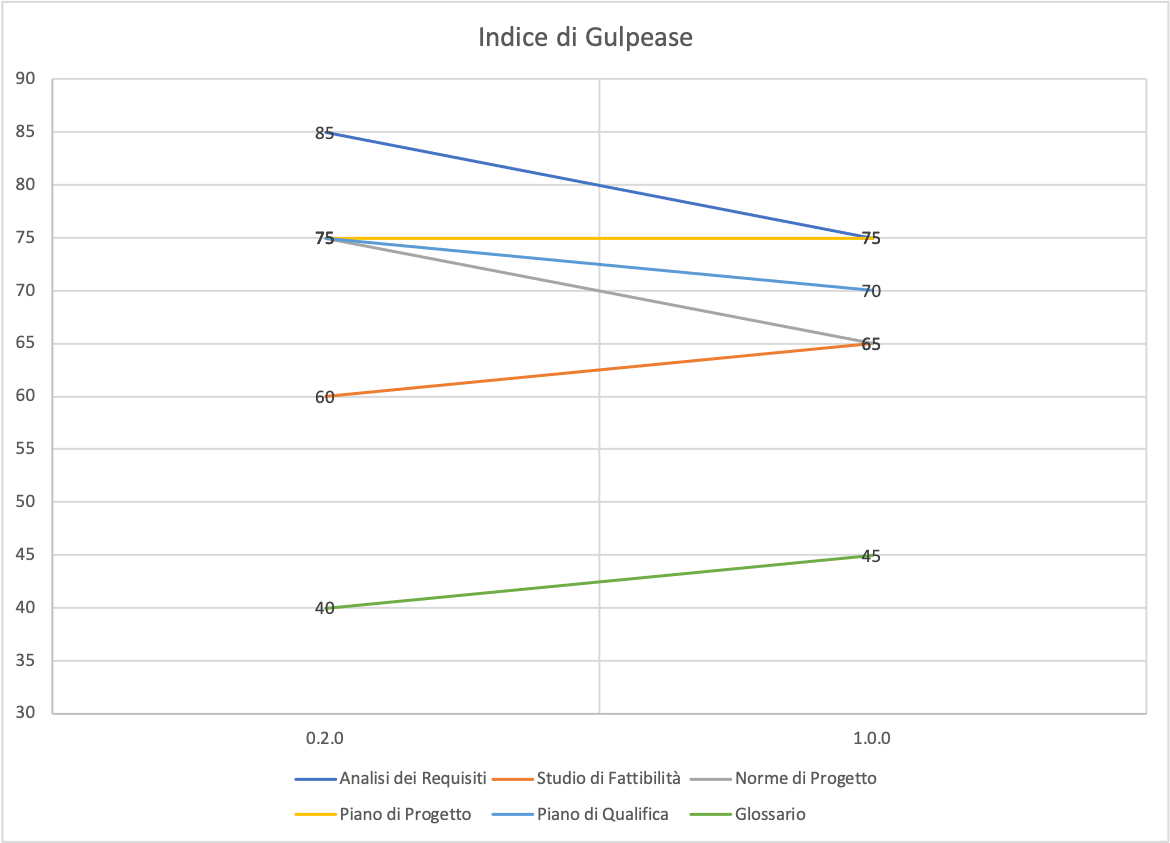
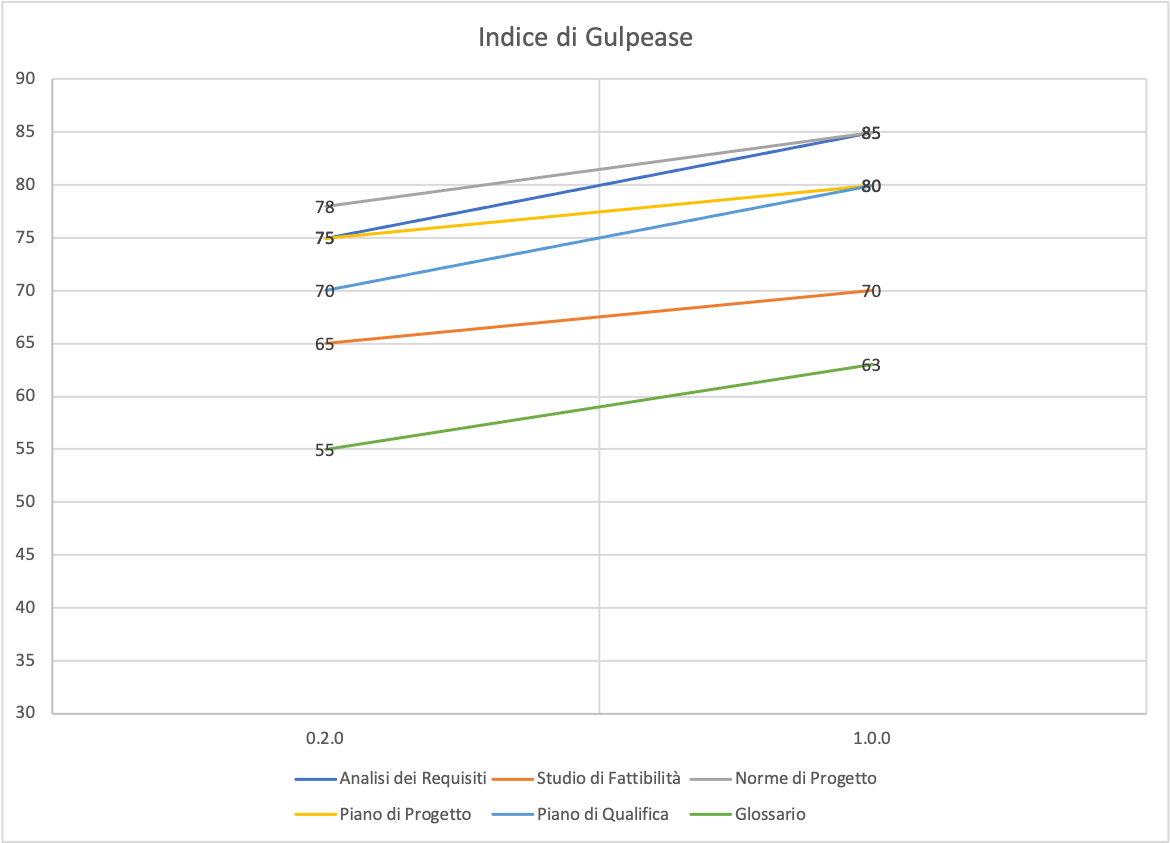
fix grafico gulpease e tabella verbali

diff --git a/Esterni/PianoDiQualifica/res/sections/resoconto_verifica/resoconto_verifica.tex b/Esterni/PianoDiQualifica/res/sections/resoconto_verifica/resoconto_verifica.tex
@@ -47,14 +47,21 @@ Per quanto riguarda i verbali redatti in occasione dei meeting tra i membri del 
 
         \hline
 
-        Verbale Interno 2020-12-02 & 60 \\
-        Verbale Intero 2020-12-07& 61  \\
-        Verbale Estero 2020-12-10 & 63  \\
-        Verbale Interno 2020-12-14 & 62 \\
-        Verbale Interno 2020-12-17 & 62  \\
-        Verbale Interno 2020-12-22 & 60 \\
-        Verbale Interno 2021 & 0  \\
-        Verbale Interno 2021 & 0\\  
+
+       
+      
+
+        Verbale Interno 2020-11-24 & 77 \\
+        Verbale Interno 2020-12-05 & 70 \\
+        Verbale Interno 2020-12-07& 71 \\
+        Verbale Esterno 2020-12-10 & 73  \\
+        Verbale Interno 2020-12-14 & 72 \\
+        Verbale Interno 2020-12-17 & 75  \\
+        Verbale Interno 2020-12-22 & 70 \\
+        Verbale Interno 2020-12-28 & 73  \\
+        Verbale Interno 2021-01-02& 73 \\  
+        Verbale Esterno 2021-01-08 & 74  \\
+        
 
     
         \hline
